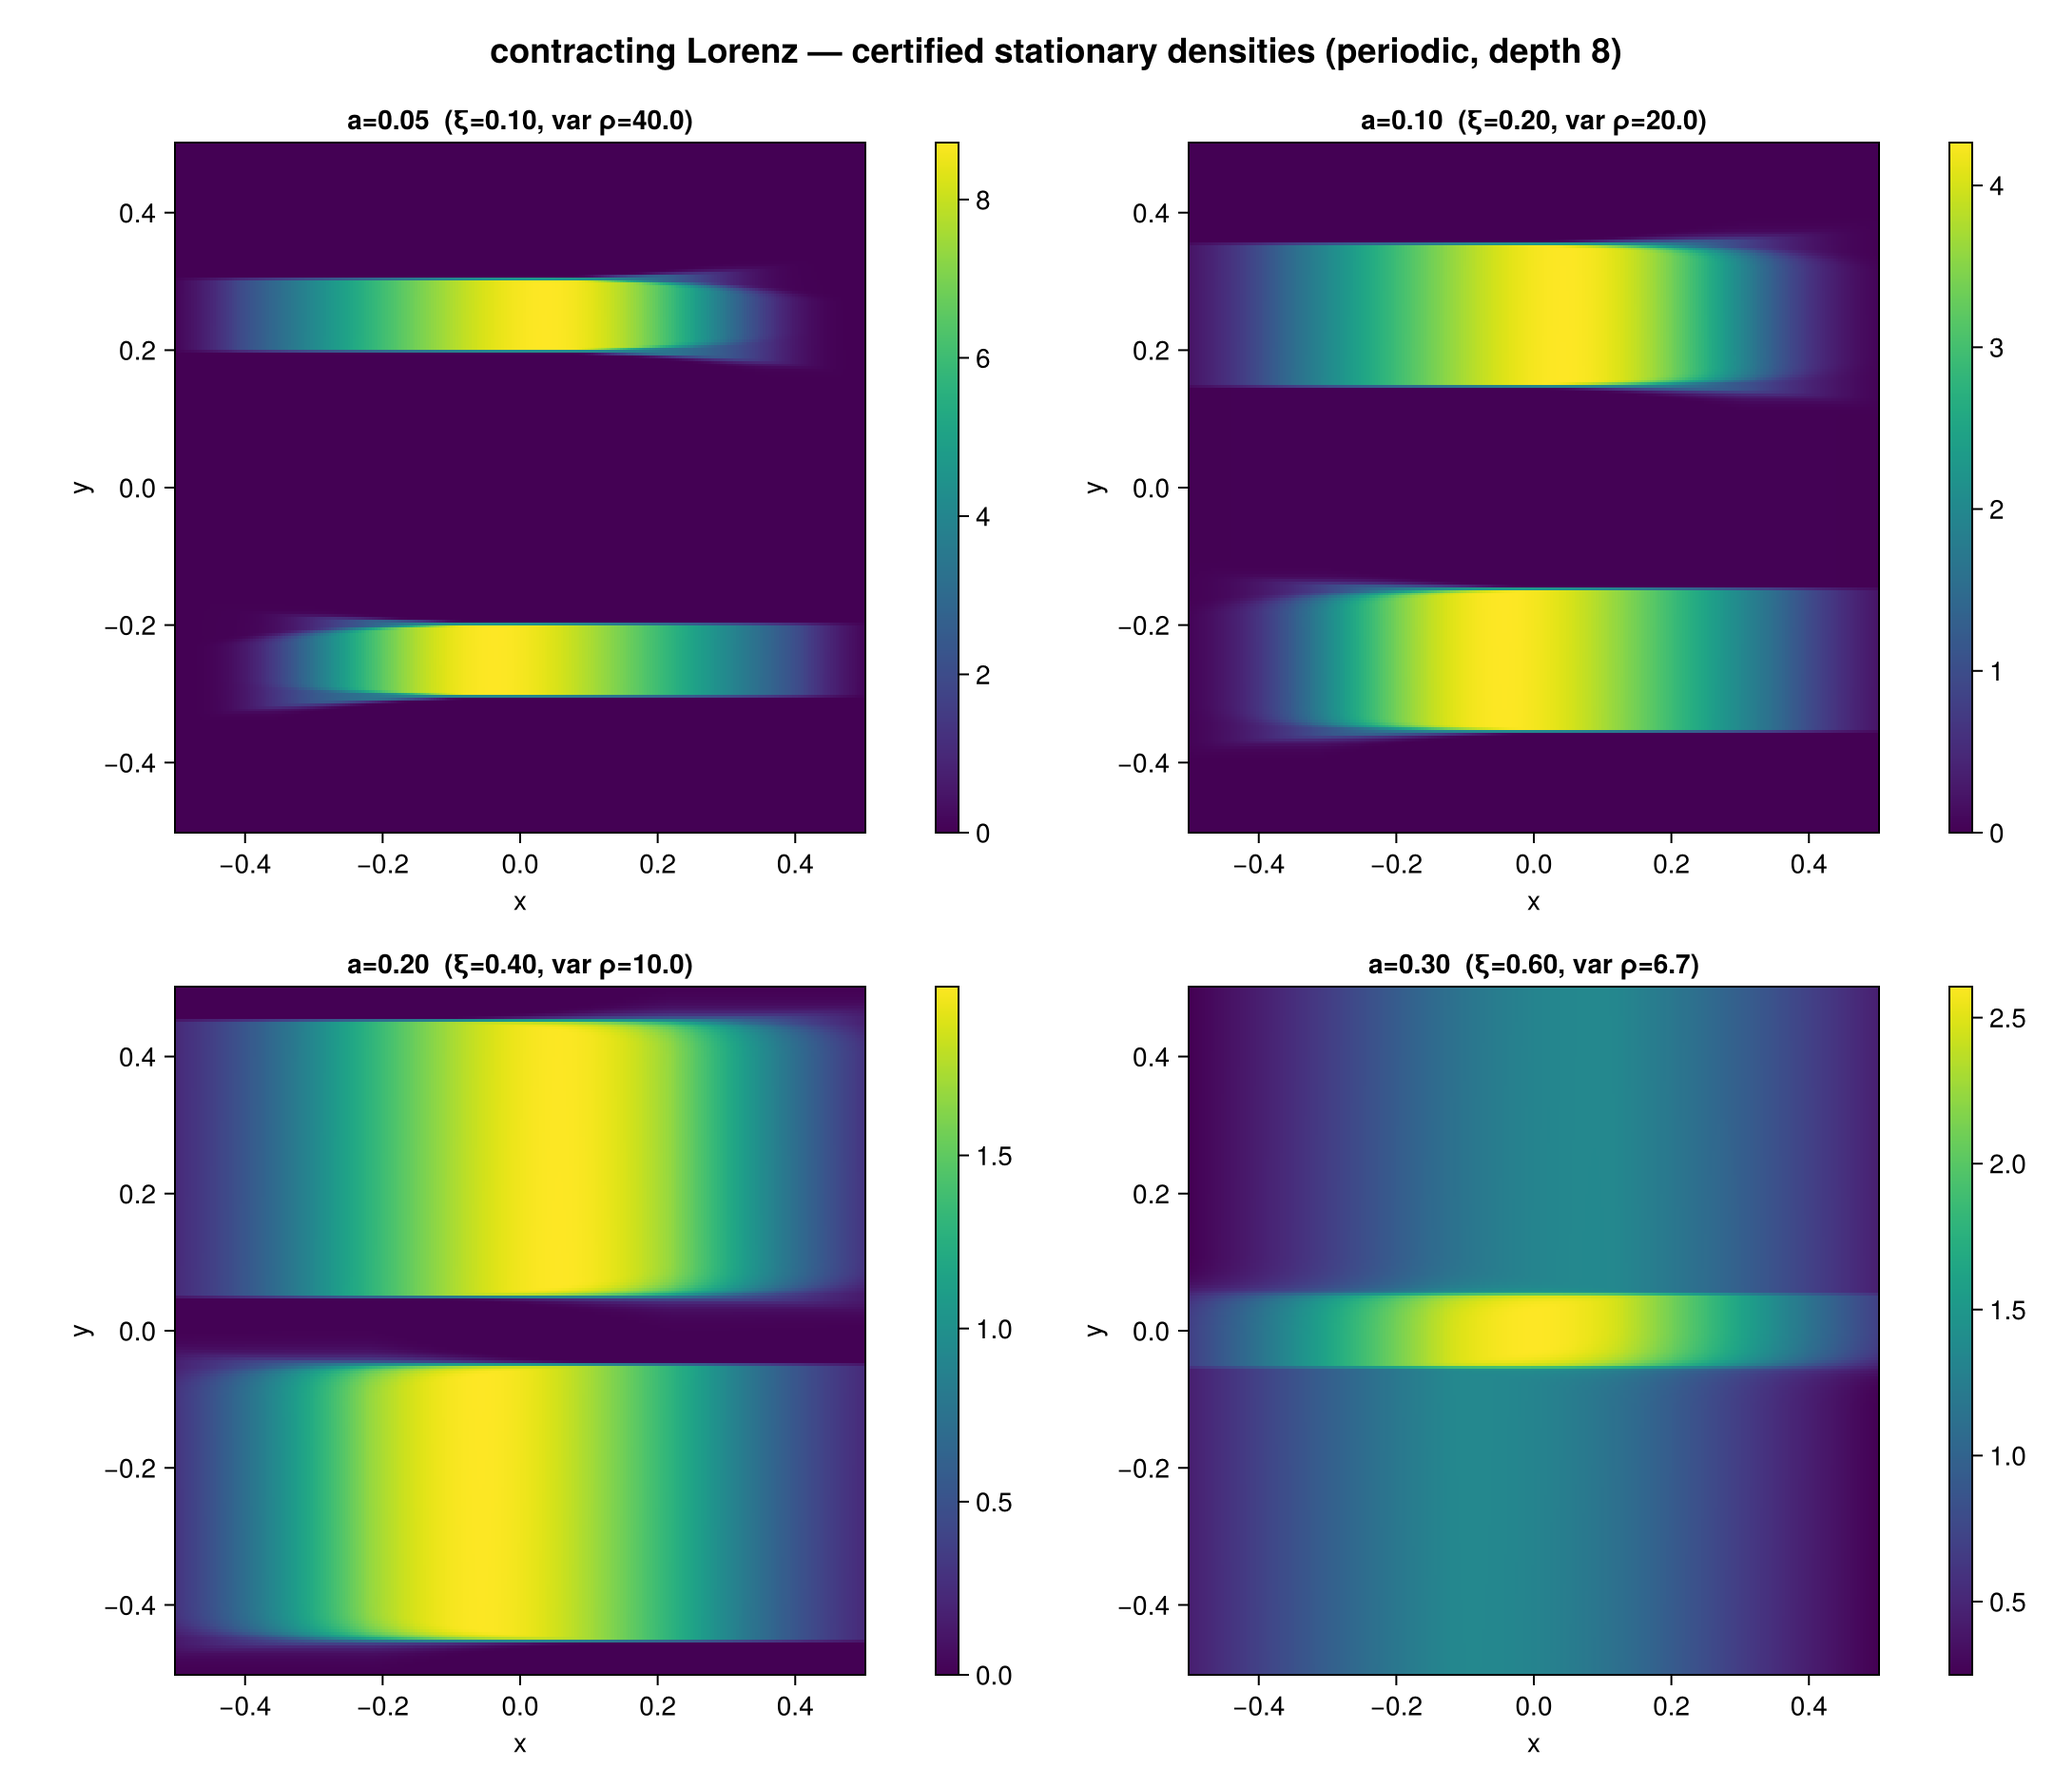
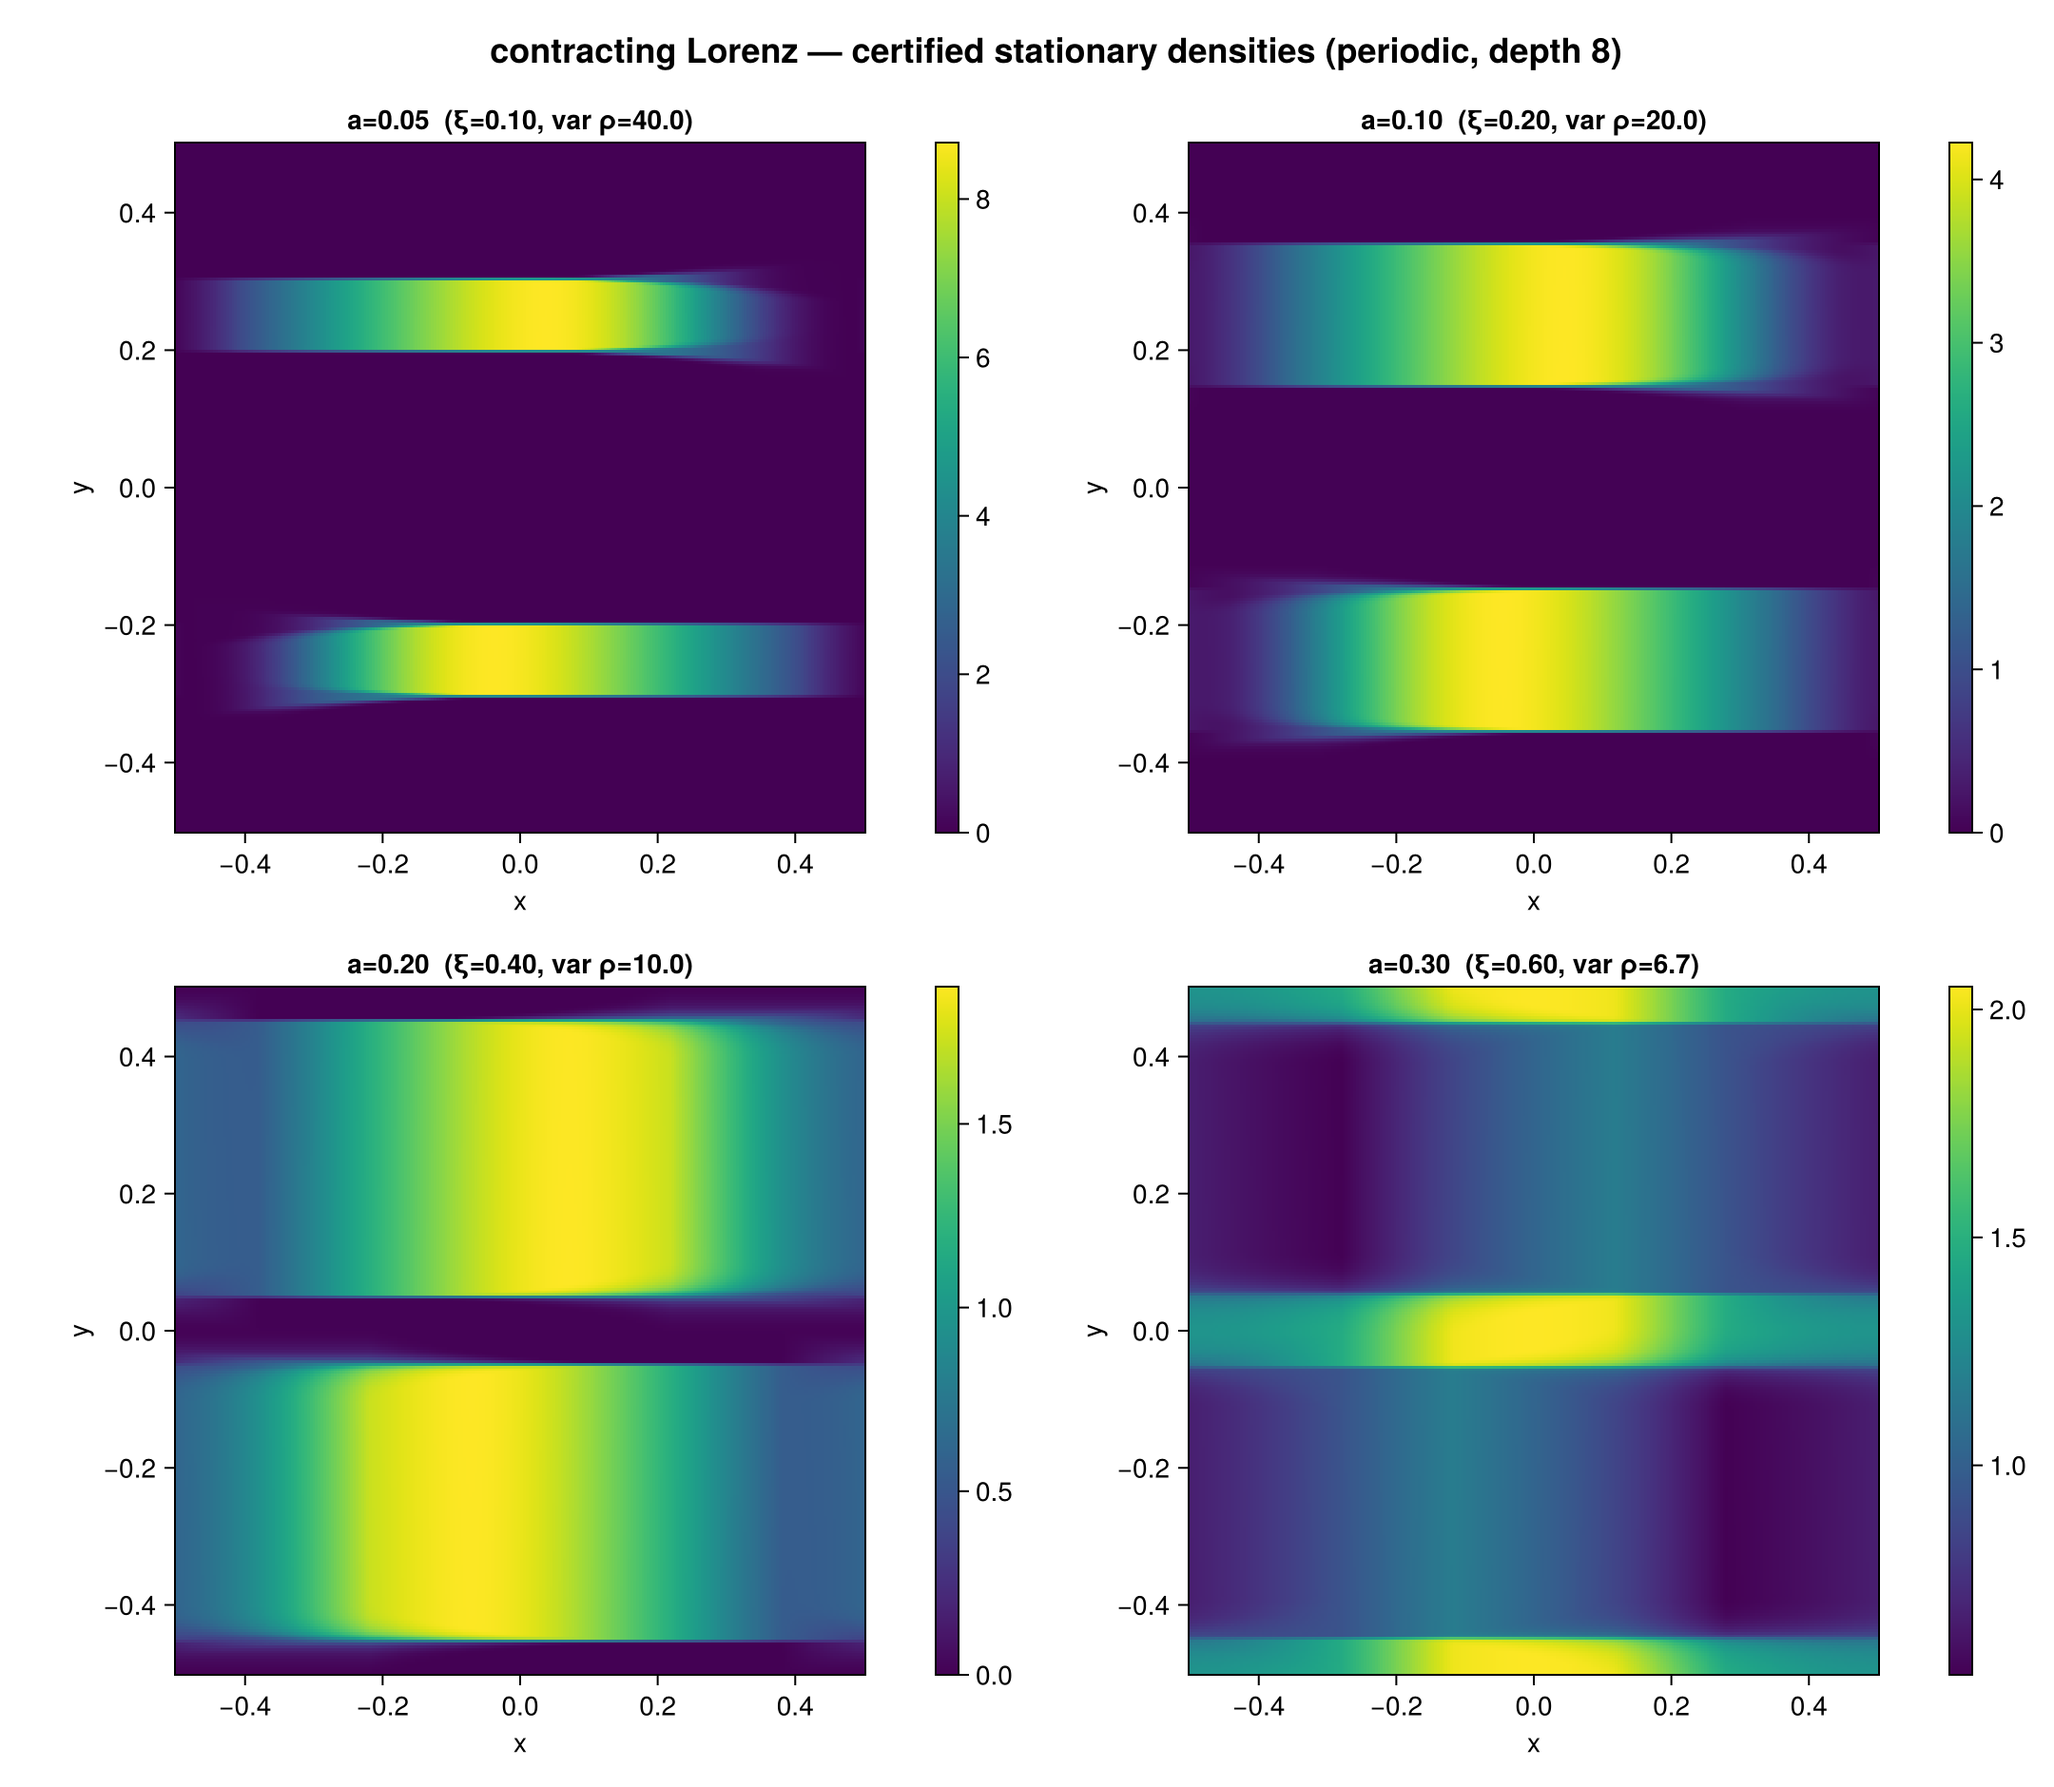
Lorenz: periodic boundary, not absorbing
The Lorenz Ulam operator must be built with periodic boundary conditions; the earlier
runs used absorbing ones, which leak mass at the boundary. That leak is visible in the
old output: the Perron eigenvalue came out at 0.9988 rather than 1, and A*1 = 1 failed
by 1.27e-2. Also corrects the noise-radius comment in the sweep — uniform_noise_box(w,2)
gives half-width w, so rx = round(w/cellwidth).

Applies the same fix to the density gallery and regenerates its Lorenz figure.

diff --git a/20260803_RigorousUlam2D_log.md b/20260803_RigorousUlam2D_log.md
@@ -35,3 +35,25 @@ the "5-cell/7-cell" comments are wrong. Fix: line 47 → round(w/cellw), or rela
 ### Gap certificates on hand (depth 6, |z|=0.6), for a=0.05/0.1/0.2 only
 Hénon: 4 eigenvalues outside 0.6 (complete), |λ₂|=0.6955, ‖G22‖=0.445.
 Lorenz: 1 outside, |λ₂|≤0.60, ‖G22‖=0.234. (a=0.3 certificate pending from user.)
+
+## a=0.3 gap certificate + PERIODICITY BUG in Lorenz certs — 2026-08-03 (later)
+
+certified_gaps.txt now includes a=0.3 (depth 6, |z|=0.6):
+- Hénon a=0.3: 1 eig outside, |λ₁|=1.0000 (periodic ✓), |λ₂|≤0.60, gap≥0.40, |G22|=0.140.
+- Hénon a=0.2/0.1/0.05: |λ₂|=0.6425/0.6955/0.7457 (SHARP, ≥2 outside).
+- Lorenz a=0.3/0.2/0.1/0.05: |λ₁|=0.8477/0.9754/0.9988/0.9996 — ALL <1 ⇒ NON-PERIODIC.
+
+**BUG**: examples/15_noise_sweep.jl had `per=false` for Lorenz (line 33) — violates the
+always-periodic rule. So every Lorenz gap certificate in results/ is the absorbing operator
+(mass leaks, |λ₁|<1), NOT the periodic one the paper uses. Hénon certs are fine (periodic).
+FIXED: set Lorenz per=true; also fixed the cosmetic rx display (line 47 was round((w/2)/cellw),
+actual is round(w/cellw)). Relaunched periodic Lorenz cert (MAP=lorenz, 4 noises).
+
+My gallery script examples/16_density_gallery.jl had the SAME per=false Lorenz inheritance —
+fixed to true, regenerated. Periodic Lorenz var(f_h): a=0.05→22.8, 0.1→13.0, 0.2→7.2, 0.3→4.58
+(a=0.3 max density back to 2.05, matching earlier periodic run; non-periodic had 2.61).
+
+Draft: added tab:gallery (per-noise |λ₂| + var(f_h)) and two 4-panel gallery figures
+(fig:gallery_henon, fig:gallery_lorenz) replacing the single a=0.3 figure. Hénon gaps filled
+(periodic-certified); Lorenz |λ₂| column daggered pending the periodic recert now running.
+pdflatex clean, 27pp.
